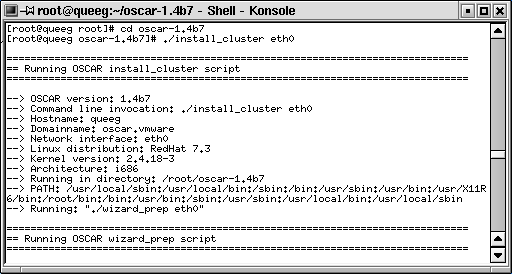
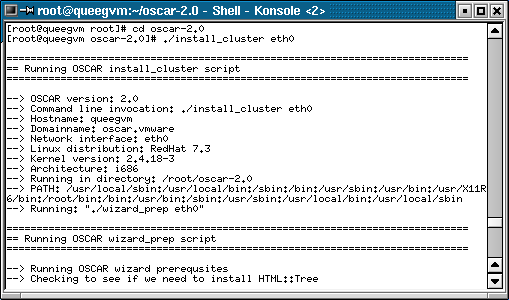
Final round of commits.  Docs for 2.0 should be complete.
git-svn-id: http://svn.oscar.openclustergroup.org/oscar/trunk@1485 18f9d06c-6ae2-0310-8438-938a554feff9

Former-commit-id: 55a0058bf4d9d084734c2c1211ad91e3d7b504f8

Changed region(s): [[0.0, 0.0, 1.0, 0.9927]]

diff --git a/doc/installation/screen-by-screen.tex b/doc/installation/screen-by-screen.tex
@@ -7,13 +7,14 @@
 % information, see the COPYING file in the top level directory of the
 % OSCAR source distribution.
 %
-% $Id: screen-by-screen.tex,v 1.19 2002/11/17 04:02:40 jsquyres Exp $
+% $Id: screen-by-screen.tex,v 1.20 2002/11/17 18:09:27 jsquyres Exp $
 %
 % $COPYRIGHT$
 %
 
-%% Put ourselves on a new page because we go and change the margins for
-%% our images
+% Put ourselves on a new page to get lining up of images to be much
+% easier / more consistent.
+
 \newpage
 
 \section{Screen-by-Screen Walkthrough}
@@ -28,8 +29,7 @@ Note the example screen shots were based in a Red Hat 7.3 using a
 pre-release version of OSCAR \oscarversion\ in the KDE graphical
 environment.  Since this section is intended as a supplementary source
 of information, it is judged to be ``close enough'' to the real
-\oscarversion\ release.  Just beware that some of the screenshots may
-not be {\em exactly} what you see in the \oscarversion\ release.
+\oscarversion\ release.  
 
 Also note that these images have been scaled down to fit within the
 document.  As such, although they are readable, the images may not
@@ -81,37 +81,76 @@ Section~\ref{det:installcluster}, page~\pageref{det:installcluster}.
 
 
 %------------------------------------------------------------------
-% Step 1: Prepare OSCAR Server For Install
+% Select OSCAR packages to install
 %------------------------------------------------------------------
 
-\subsection{Step 1: Prepare OSCAR Server for Install}
+\subsection{Select OSCAR Packages to Install}
 
-Step 1 is used to setup the server for the OSCAR cluster.  See details
-in Section~\ref{det:prepareforinstall},
-page~\pageref{det:prepareforinstall}. 
+An optional step.  See details in Section~\ref{det:select-packages},
+page~\pageref{det:select-packages}.
+
+\begin{figure}[ht!]
+  \begin{center}
+    \centerline{\includegraphics[scale=\imgscale]{figs/package-selection}}
+    \caption[Selecting which OSCAR packages to install.]{Selecting
+      which OSCAR packages to install.  Packages with black checkboxes
+      are Core packages, and cannot be unselected.}
+    \label{fig:sbs-package-selection}
+  \end{center}
+\end{figure}
+
+%------------------------------------------------------------------
+% Configure selected OSCAR packages
+%------------------------------------------------------------------
+
+\subsection{Configure Selected OSCAR Packages}
+
+An optional step.  See details in
+Section~\ref{det:configure-packages},
+page~\pageref{det:configure-packages}.
+
+\begin{figure}[ht!]
+  \begin{center}
+    \centerline{
+      \includegraphics[scale=\imgscale]{figs/package-configuration}
+      \hspace{\imghskip}
+      \includegraphics[scale=\imgscale]{figs/package-configuration-switcher}
+    }
+    \caption{Configuring selected OSCAR packages.  Only the
+      Environment Switcher package has configuration options.}
+    \label{fig:sbs-package-configuration}
+  \end{center}
+\end{figure}
+
+%------------------------------------------------------------------
+% Install OSCAR Server Packages
+%------------------------------------------------------------------
+
+\subsection{Install OSCAR Server Packages}
+
+This step is used to setup the server for the OSCAR cluster.  See
+details in Section~\ref{det:install-server-packages},
+page~\pageref{det:install-server-packages}.
 
 \begin{figure}[hb!]
   \begin{center}
-    \centerline{
-      \includegraphics[scale=\imgscale]{figs/3a_sbs-wizard-step1}
-      \hspace{\imghskip}
-      \includegraphics[scale=\imgscale]{figs/3b_sbs-wizard-step1}
-      }
-    \caption{Step 1 -- Select default MPI implementation and prepare server.}
+    \includegraphics[scale=\imgscale]{figs/install-server-pkgs-done}
+    \caption{Successfully installed the OSCAR server packages.}
     \label{fig:sbs-install-wizard-s1}
   \end{center}
 \end{figure}
 
 
 %------------------------------------------------------------------
-% Step 2: Build OSCAR Client Image
+% Build OSCAR Client Image
 %------------------------------------------------------------------
 
-\subsection{Step 2: Build OSCAR Client Image}
+\subsection{Build OSCAR Client Image}
 
-Step 2 builds a disk image for the clients to download and install
+This step builds a disk image for the clients to download and install
 onto their local disks.  See the details in
-Section~\ref{det:buildimage}, page~\pageref{det:buildimage}.
+Section~\ref{det:build-client-image},
+page~\pageref{det:build-client-image}.
 
 \begin{figure}[h!]
   \begin{center}
@@ -122,22 +161,22 @@ Section~\ref{det:buildimage}, page~\pageref{det:buildimage}.
       \hspace{\imghskip}
       \includegraphics[scale=\imgscale]{figs/4c_sbs-build-image3}
       }
-    \caption{Step 2 -- Building the image.}
+    \caption{Building the OSCAR client image.}
     \label{fig:sbs-build-image}
   \end{center}
 \end{figure}
 
 
 %------------------------------------------------------------------
-% Step 3: Define OSCAR Clients
+% Define OSCAR Clients
 %------------------------------------------------------------------
 
 \clearpage
-\subsection{Step 3: Define OSCAR Clients}
+\subsection{Define OSCAR Clients}
 
 Step 3 is used to specify how many clients there will be, and what
 their TCP/IP characteristics will be.  See the details in
-Section~\ref{det:defclients}, page~\pageref{det:defclients}.
+Section~\ref{det:define-clients}, page~\pageref{det:define-clients}.
  
 \begin{figure}[ht!]
   \begin{center}
@@ -146,26 +185,27 @@ Section~\ref{det:defclients}, page~\pageref{det:defclients}.
       \hspace{\imghskip}
       \includegraphics[scale=\imgscale]{figs/5b_sbs-define-clients2}
       }
-    \caption{Step 3 -- Defining the clients.}
+    \caption{Defining the OSCAR clients.}
     \label{fig:sbs-define-clients}
   \end{center}
 \end{figure}
 
 
 %------------------------------------------------------------------
-% Step 4: Setup Networking
+% Setup Networking
 %------------------------------------------------------------------
 
-\subsection{Step 4: Setup Networking}
+\subsection{Setup Networking}
 
-Step 4 is used to collect the MAC addresses of the clients, and then
-download the disk images to the clients.  See the details in
-Section~\ref{det:setupnetwork}, page~\pageref{det:setupnetwork}.
+This step is used to collect the MAC addresses of the clients, and
+then download the disk images to the clients.  See the details in
+Section~\ref{det:setup-networking},
+page~\pageref{det:setup-networking}.
 
 \begin{figure}[h!]
   \begin{center}
     \centerline{\includegraphics[scale=\imgscale]{figs/6a_sbs-collect-mac1}}
-    \caption{Beginning step 4 -- Setting up networking.}
+    \caption{Setup networking: initial window.}
     \label{fig:sbs-setup-network1}
   \end{center}
 \end{figure}
@@ -183,7 +223,7 @@ Section~\ref{det:setupnetwork}, page~\pageref{det:setupnetwork}.
       \hspace{\imghskip}
       \includegraphics[scale=\imgscale]{figs/6bc_sbs-autoinstall-flpy3}
       }
-    \caption{Further progress in step 4 -- Build Autoinstall Floppy.}
+    \caption{Setup networking: building an autoinstall floppy.}
     \label{fig:sbs-autoinstall-flpy1}
   \end{center}
 \end{figure}
@@ -199,7 +239,7 @@ Section~\ref{det:setupnetwork}, page~\pageref{det:setupnetwork}.
         \includegraphics[scale=\imgscale]{figs/6c_sbs-client-boot1}
         }
       }
-    \caption{Further progress in step 4 -- Booting the client.}
+    \caption{Setup networking: booting the client.}
     \label{fig:sbs-collect-boot1}
   \end{center}
 \end{figure}
@@ -208,8 +248,7 @@ Section~\ref{det:setupnetwork}, page~\pageref{det:setupnetwork}.
   \begin{center}
     \centerline{
       \includegraphics[scale=\imgscale]{figs/6ca_sbs-client-boot1}}
-    \caption{Further progress in step 4 -- Scan for booting client (DHCP
-      request).}
+    \caption{Setup networking: scan for booting client (DHCP request).}
     \label{fig:sbs-client-boot2}
   \end{center}
 \end{figure}
@@ -221,8 +260,8 @@ Section~\ref{det:setupnetwork}, page~\pageref{det:setupnetwork}.
         \includegraphics[scale=\imgscale]{figs/6d_sbs-broadcast}
         }
       }
-    \caption{Further progress in step 4 -- Client is broadcasting, in
-      order to acquire MAC address.}
+    \caption{Setup networking: client is broadcasting, allows capture
+      of MAC address.}
     \label{fig:sbs-collect-broadcast} 
   \end{center}
 \end{figure}
@@ -233,10 +272,10 @@ Section~\ref{det:setupnetwork}, page~\pageref{det:setupnetwork}.
       \includegraphics[scale=\imgscale]{figs/6e_sbs-found-mac}
       \hspace{\imghskip}
       \includegraphics[scale=\imgscale]{figs/6f_sbs-stop-collect-mac2}
-      }
-    \caption[Further progress in step 4 -- Assigning MACs to
-      IPs]{Further progress in step 4 -- Scanning network, found first
-        MAC address, then later assigned all MAC addresses.}
+    }
+    \caption[Setup networking: Assigning MACs to IPs]{Setup
+      networking: Scanning network, found first MAC address, then
+      later assigned all MAC addresses.}
     \label{fig:sbs-setup-network2}
   \end{center}
 \end{figure}
@@ -282,7 +321,7 @@ Section~\ref{det:setupnetwork}, page~\pageref{det:setupnetwork}.
   \end{center}
 \end{figure}
 
-\begin{figure}[h!]
+\begin{figure}[!h]
   \begin{center}
     \centerline{
       \framebox{
@@ -297,13 +336,13 @@ Section~\ref{det:setupnetwork}, page~\pageref{det:setupnetwork}.
 
 
 %------------------------------------------------------------------
-% Step 5: Complete Cluster Install
+% Complete Cluster Setup
 %------------------------------------------------------------------
 
 \clearpage
-\subsection{Step 5: Complete Cluster Install} 
+\subsection{Step 5: Complete Cluster Setup} 
 
-Step 5 is used to unify the server and client installations into a
+This step is used to unify the server and client installations into a
 single cluster.  See the details in
 Section~\ref{det:complete-cluster-setup},
 page~\pageref{det:complete-cluster-setup}.
@@ -311,37 +350,29 @@ page~\pageref{det:complete-cluster-setup}.
 \begin{figure}[h!]
    \begin{center}
      \centerline{\includegraphics[scale=\imgscale]{figs/7_sbs-complete-cluster-setup}}
-     \caption{Step 5 -- Complete Cluster Setup.}
+     \caption{Complete Cluster Setup.}
      \label{fig:sbs-install-wizard-s5}
    \end{center}
  \end{figure}
 
 
 %------------------------------------------------------------------
-% Step 6: Test Cluster Setup
+% Test Cluster Setup
 %------------------------------------------------------------------
 
-\subsection{Step 6: Test Cluster Setup}
+\subsection{Test Cluster Setup}
 
-Step 6 is used to test the cluster setup.  It can either be run from
-within the wizard, or, as shown here, from manually launching a shell
-script at a \user{root} command prompt.  See the details in
+This step is used to test the cluster setup.  It can either be run
+from within the wizard, or, as shown here, from manually launching a
+shell script at a \user{root} command prompt.  See the details in
 Section~\ref{det:test-cluster}, page~\pageref{det:test-cluster}.
 
 \begin{figure}[h!]
   \begin{center}
     \centerline{
-      \includegraphics[scale=\imgscale]{figs/8_sbs-test-cluster-prompt}
-      \hspace{\imghskip}
-      \includegraphics[scale=\imgscale]{figs/8_sbs-test-cluster-root-tests}
-      }
-    \vspace{\imgvskip}
-    \centerline{
-      \includegraphics[scale=\imgscale]{figs/8_sbs-test-cluster-user-tests}
-      \hspace{\imghskip}
       \includegraphics[scale=\imgscale]{figs/8_test-cluster-complete}
       }
-    \caption{Step 6 -- Test the cluster.}
+    \caption{Test the cluster.}
     \label{fig:sbs-setup-test}
   \end{center}
 \end{figure}
@@ -392,7 +423,7 @@ In this example, we will add back \hostname{oscarnode2} into the
 cluster.  See the details of adding a client in
 Section~\ref{det:adding-clients}, page~\pageref{det:adding-clients}.
 
-\begin{figure}[h!]
+\begin{figure}[!h]
   \begin{center}
     \centerline{\includegraphics[scale=\imgscale]{figs/9a_sbs-add-node}}
     \caption{Add OSCAR Clients.}
@@ -400,37 +431,34 @@ Section~\ref{det:adding-clients}, page~\pageref{det:adding-clients}.
   \end{center}
 \end{figure}
 
-\begin{figure}[h!]
+\begin{figure}[!hb]
   \begin{center}
     \centerline{
       \includegraphics[scale=\imgscale]{figs/9b_sbs-add-node-mksirange}
       \hspace{\imghskip}
       \includegraphics[scale=\imgscale]{figs/9c_sbs-add-node-success}
       }
-    \caption[Add Node step 1 -- Defining the clients.]{Add Node step 1
-      -- Defining the clients.  Note that you only define {\em new}
-      clients here (i.e., change the starting number, starting IP,
-      etc.).}
+    \caption{Add node / defining the clients.}
     \label{fig:sbs-add-node1-define-clients}
   \end{center}
 \end{figure}
 
-\begin{figure}[h!]
+\begin{figure}[!t]
   \begin{center}
     \centerline{
       \includegraphics[scale=\imgscale]{figs/9d_sbs-add-node-mac1}
       \hspace{\imghskip}
       \includegraphics[scale=\imgscale]{figs/9e_sbs-add-node-mac2}
       }
-    \caption{Add Node step 2 -- Setting up networking for new client(s).}
+    \caption{Add node / setup networking.}
     \label{fig:sbs-add-node1-setup-network}
   \end{center}
 \end{figure}
 
-\begin{figure}[h!]
+\begin{figure}[!b]
   \begin{center}
     \centerline{\includegraphics[scale=\imgscale]{figs/9f_sbs-add-node-complete}}
-    \caption{Add Node step 3 -- Complete Cluster Setup.}
+    \caption{Add node / complete cluster setup.}
     \label{fig:sbs-add-node1-cluster-setup}
   \end{center}
 \end{figure}

diff --git a/doc/installation/release-notes.tex b/doc/installation/release-notes.tex
@@ -7,7 +7,7 @@
 % information, see the COPYING file in the top level directory of the
 % OSCAR source distribution.
 %
-% $Id: release-notes.tex,v 1.27 2002/11/17 04:54:28 jsquyres Exp $
+% $Id: release-notes.tex,v 1.28 2002/11/17 18:09:27 jsquyres Exp $
 %
 
 \section{Release Notes}
@@ -123,6 +123,11 @@ The following release notes apply to OSCAR version \oscarversion.
 \begin{verbatim}
   # urpmi perl-XML-Simple perl-XML-Parser
 \end{verbatim}
+
+\item There will be two warnings displayed while building the client
+  image -- the \file{lam-oscar} and \file{mpich-oscar} RPMs will
+  display errors regarding a lack of \file{libtcl.so.0}.  It is safe
+  to ignore these warnings.
   
 \item If installing the third-party package Ganglia, the
   \file{libpng} RPM version 1.0.8-2mdk must be manually installed
